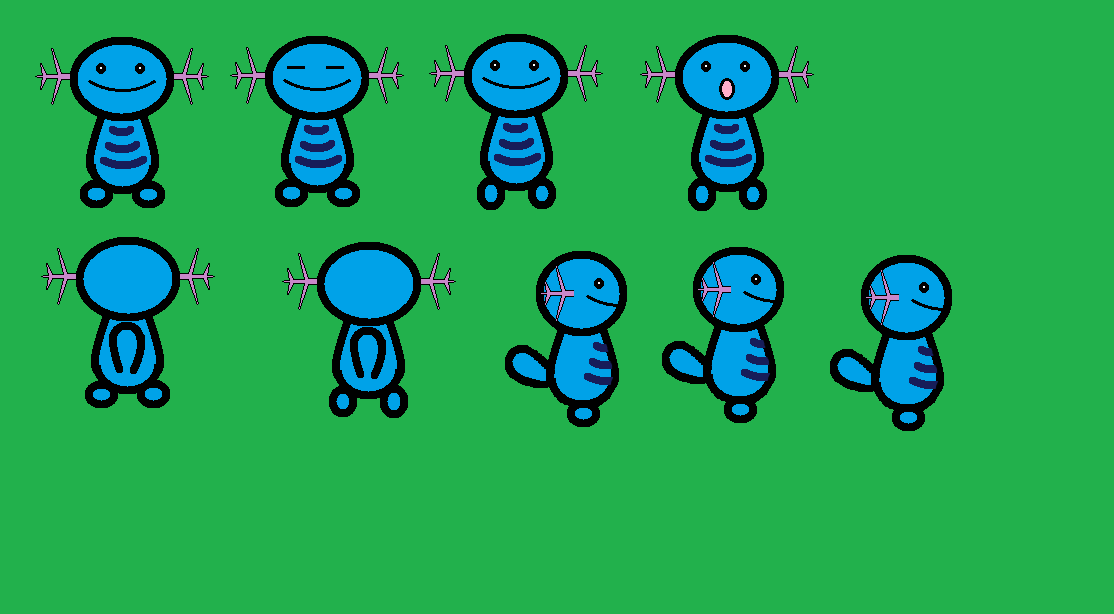
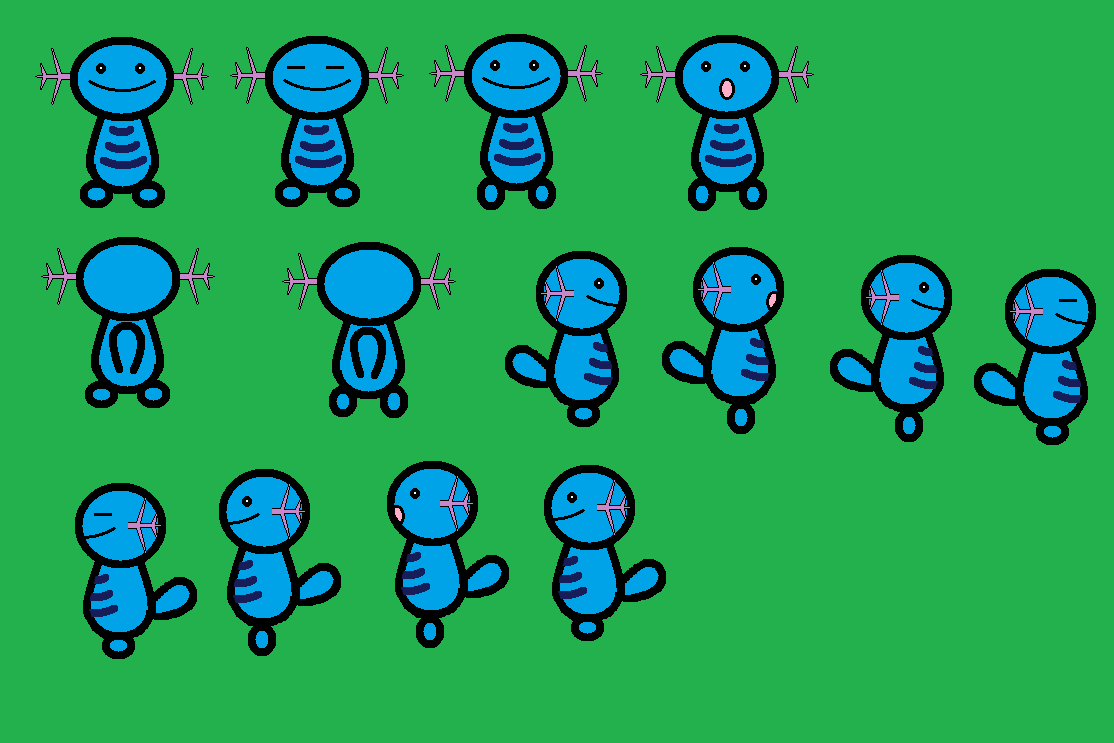
updated spritesheet

Changed region(s): [[0.0305, 0.0309, 0.7325, 0.8974], [0.7325, 0.3404, 1.0, 0.7117]]

diff --git a/assets/javascript/script.js b/assets/javascript/script.js
@@ -1663,6 +1663,24 @@ function resetSprites(){
     setPichu();
 }
 
+function useWooperSprites() {
+    testDown = [[70, 1620, 194, 194], [460, 1620, 194, 194], [70, 1620, 194, 194], [460, 1620, 194, 194]];
+    testUp = [[890, 1611, 194, 194], [1085, 1611, 194, 194], [890, 1611, 194, 194], [1087, 1610, 194, 194]];
+    testLeft = [[2120, 1625, 194, 194], [2500, 1635, 194, 194], [2120, 1625, 194, 194], [2500, 1635, 194, 194]];
+    testRight = [[1294, 1615, 194, 194], [1673, 1623, 194, 194], [1294, 1615, 194, 194], [1673, 1623, 194, 194]];
+    testDownIdle = [[70, 1620, 194, 194], [265, 1619, 194, 194]];
+    testUpIdle = [[890, 1611, 194, 194]];
+    testLeftIdle = [[2120, 1625, 194, 194], [2289, 1638, 194, 194]];
+    testRightIdle = [[1294, 1615, 194, 194], [1470, 1620, 194, 194]];
+    testDownAttack = [[675, 1625, 194, 194]];
+    testUpAttack = [[1085, 1611, 194, 194]];
+    testLeftAttack = [[2733, 1634, 194, 194]];
+    testRightAttack = [[1900, 1627, 194, 194]];
+    testDamage = [[0, 0, 0, 0]];
+    testHeight = testWidth = 100;
+    setPichu();
+}
+
 function setPichu(){
     pichu.downArrays = testDown;
     pichu.upArrays = testUp;
@@ -3555,7 +3573,7 @@ $("#player-pic").attr("src", pichu.picture);
 collidables.push(spriteSign);
 console.log(spriteSign.test);
 animateID = requestAnimationFrame(animate);
-resetSprites();
+useWooperSprites();
 
 
 function gameOver(){
